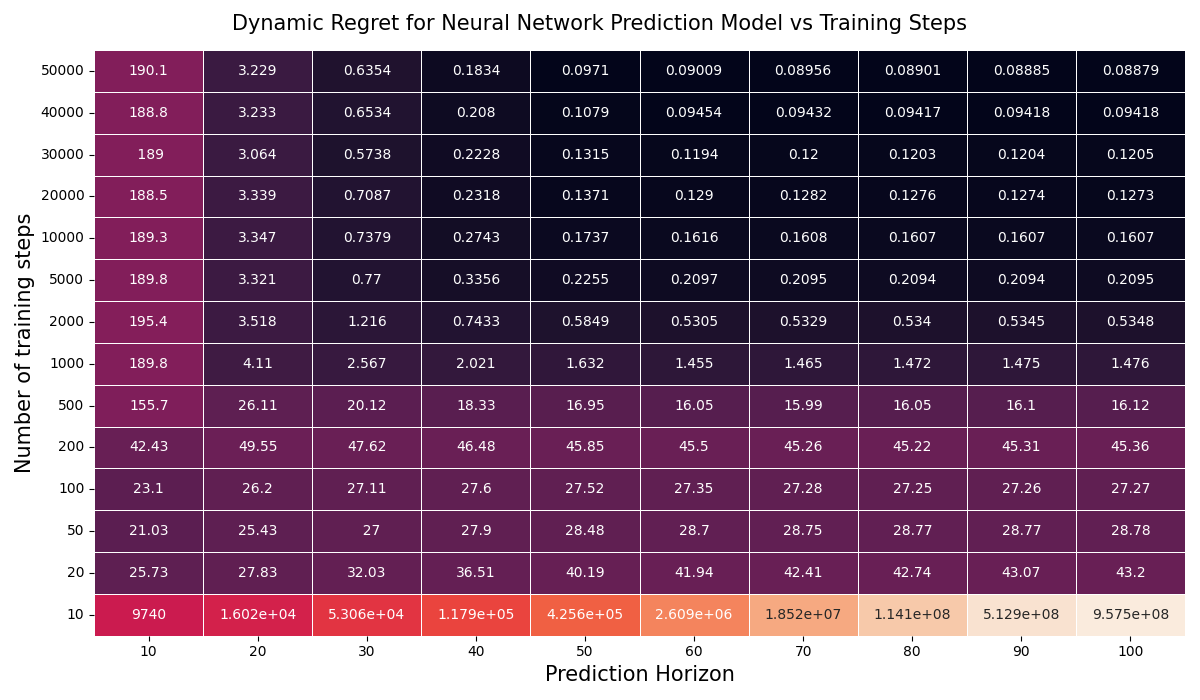
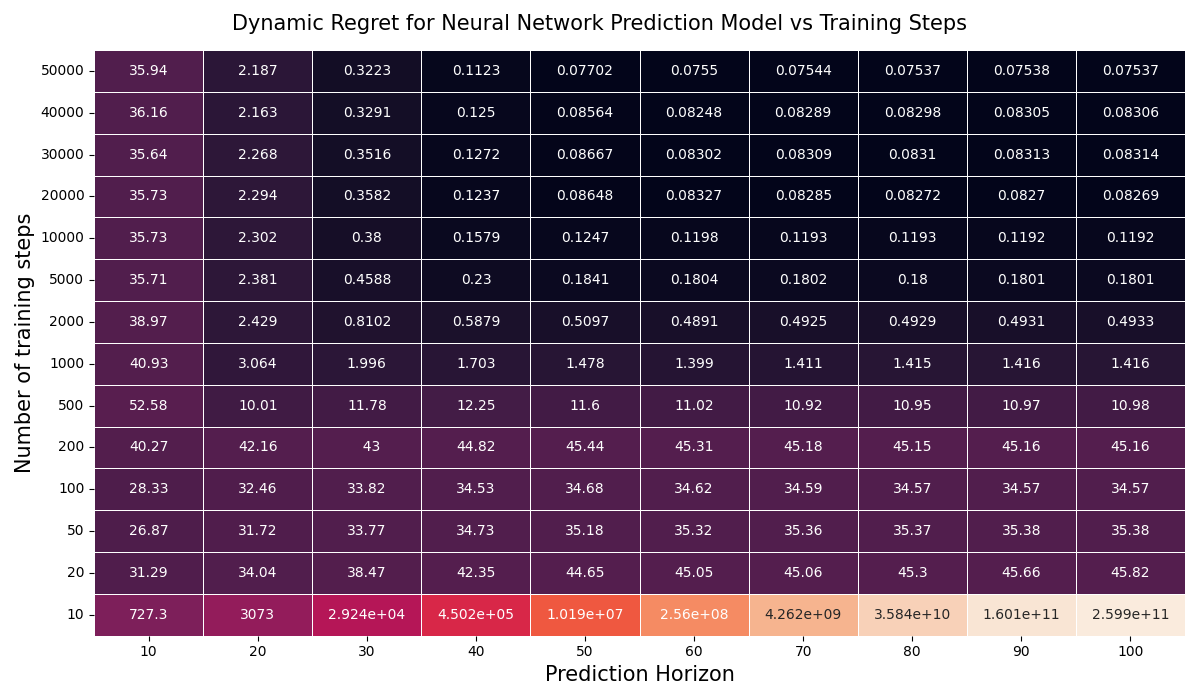
change dynamic of u to non-ill-conditioned

diff --git a/ltv_system.py b/ltv_system.py
@@ -127,7 +127,9 @@ class LTVSystem:
         # self.R = np.array([[[1, 0], [0, np.exp(-t)]] for t in self.t])
         self.x_bar = np.array([self.reference_traj_func(t) for t in self.t])
         self.A = np.array([[[np.cos(t), np.sin(t)],[-np.sin(t), np.cos(t)]] for t in self.t])
-        self.B = np.array([[[1, 0], [0, np.exp(-t)]] for t in self.t])
+        self.B = np.array([[[1, 0], [0, 0.1 + np.exp(-t)]] for t in self.t])
+        # VV TODO: ILL-CONDITIONED CASE - Comment the above line and enable this line below VV
+        # self.B = np.array([[[1, 0], [0, np.exp(-t)]] for t in self.t])
         self.w = self.rng.normal(loc=0.0, scale=self.disturbance_strength, size=(episode_length, self.state_dim(),))
 
     def get_program_parameters(self, time_step):
